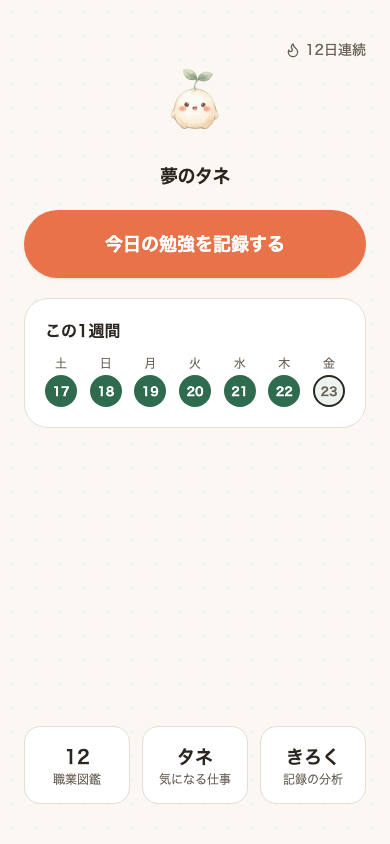
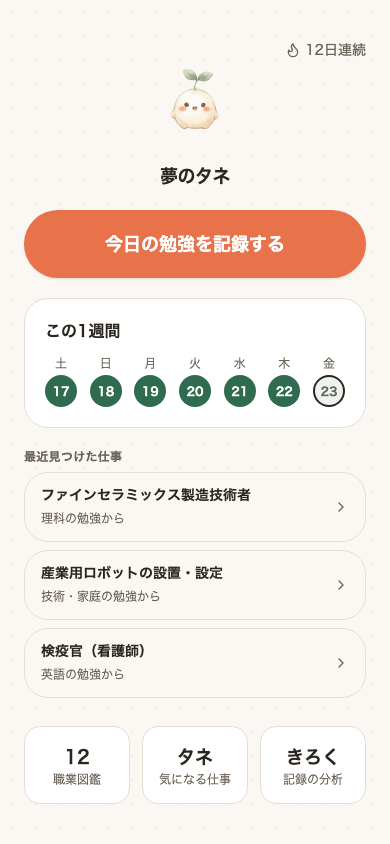
ホーム画面に「最近見つけた仕事」を追加する
週の記録と下の導線の間が空いていたため、最近見つけた仕事を最大3件並べ、
タップで詳細を開けるようにした。今日見つけた仕事は上のカードと重複するので除く。
0件のときは、記録すると並ぶことを案内する。ホームのスクリーンショットも撮り直し。

Changed region(s): [[0.0615, 0.5237, 0.4615, 0.8318], [0.4, 0.5545, 0.6462, 0.6161], [0.4923, 0.6469, 0.5846, 0.7085]]

diff --git a/web/src/components/HomeScreen.tsx b/web/src/components/HomeScreen.tsx
@@ -16,6 +16,8 @@ interface Props {
   streak: number
   zukanCount: number
   todaysDiscoveredJob: { jobId: number; jobName: string } | null
+  /** 最近見つけた仕事（今日の分を除き、新しい順に最大3件）。 */
+  recentJobs: { jobId: number; jobName: string; subject: string }[]
   toast: string | null
   loading: boolean
   error: string | null
@@ -36,6 +38,7 @@ export function HomeScreen({
   streak,
   zukanCount,
   todaysDiscoveredJob,
+  recentJobs,
   toast,
   loading,
   error,
@@ -283,6 +286,37 @@ export function HomeScreen({
             )
           })}
         </div>
+      </div>
+
+      {/* 振り返り: 最近見つけた仕事。見つけて終わりにせず、もう一度開くきっかけにする。
+          今日の記録と同じく箱で囲わず、行の集まりとして置く */}
+      <div>
+        <p className="mb-2 text-xs font-bold uppercase tracking-wide text-charcoal-muted">最近見つけた仕事</p>
+        {recentJobs.length > 0 ? (
+          <ul className="flex flex-col gap-2">
+            {recentJobs.map((job) => (
+              <li key={job.jobId}>
+                <button
+                  type="button"
+                  onClick={() => onSelectJob(job.jobId)}
+                  className="flex w-full items-center justify-between gap-3 rounded-3xl border border-border-soft bg-cream px-4 py-3 text-left transition hover:border-sage-600"
+                >
+                  <span className="min-w-0">
+                    <span className="block truncate text-sm font-bold">{job.jobName}</span>
+                    <span className="text-xs text-charcoal-muted">{job.subject}の勉強から</span>
+                  </span>
+                  <ChevronRight className="h-4 w-4 shrink-0 text-charcoal-muted" />
+                </button>
+              </li>
+            ))}
+          </ul>
+        ) : (
+          <p className="rounded-3xl border border-dashed border-border-soft px-4 py-5 text-center text-sm leading-relaxed text-charcoal-muted">
+            {todaysDiscoveredJob
+              ? "明日も記録すると、ここに仕事が並んでいくよ"
+              : "勉強を記録すると、見つけた仕事がここに並ぶよ"}
+          </p>
+        )}
       </div>
 
       {/* 行動する（次へ）: 深掘り先への導線 */}

diff --git a/web/src/App.tsx b/web/src/App.tsx
@@ -176,6 +176,12 @@ function App() {
     const todaysDiscoveredJob = discoveredEntry
       ? { jobId: discoveredEntry.jobId, jobName: discoveredEntry.jobName }
       : null
+    // 今日見つけた仕事は上のカードに出ているので除き、新しい順に3件
+    const recentJobs = appState.zukan
+      .filter((e) => e.jobId !== discoveredId)
+      .slice(-3)
+      .reverse()
+      .map((e) => ({ jobId: e.jobId, jobName: e.jobName, subject: e.subject }))
 
     return (
       <HomeScreen
@@ -185,6 +191,7 @@ function App() {
         streak={appState.streak}
         zukanCount={appState.zukan.length}
         todaysDiscoveredJob={todaysDiscoveredJob}
+        recentJobs={recentJobs}
         toast={homeToast}
         loading={loading}
         error={error}
